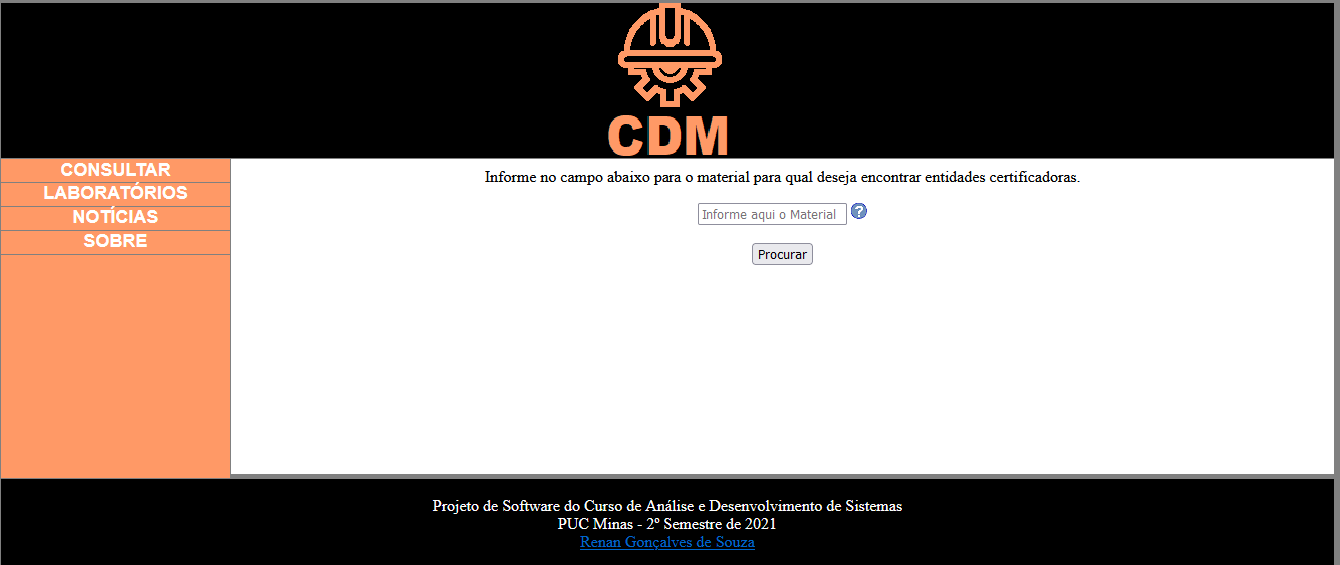
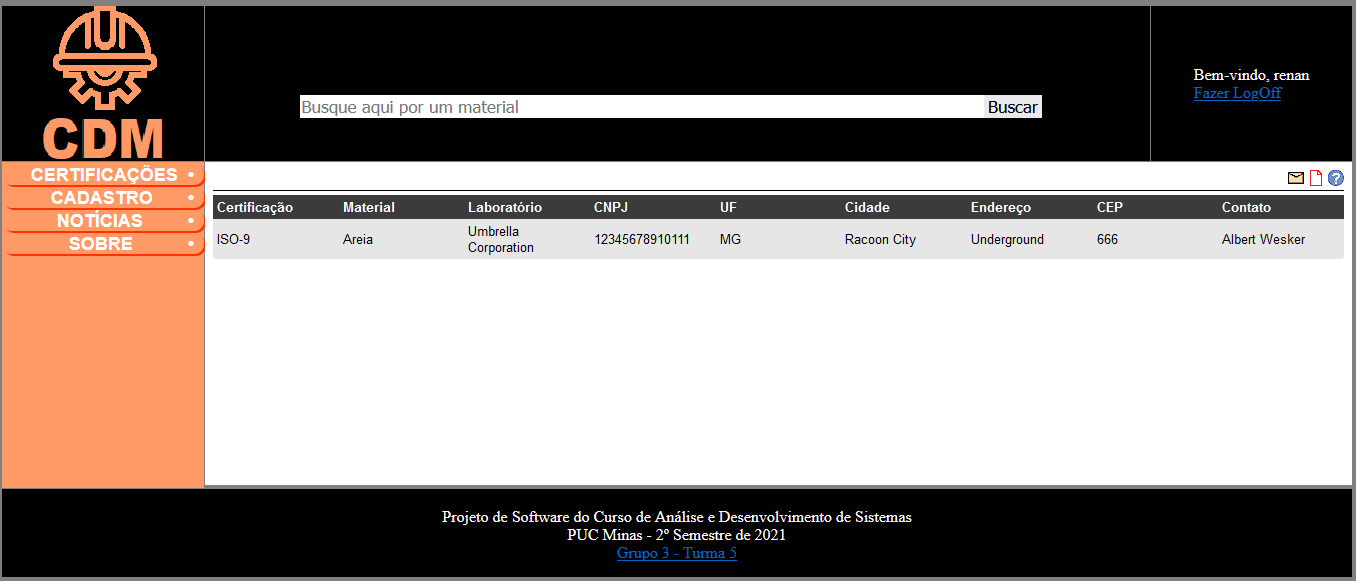
doumentação: completude de informações

Changed region(s): [[0.0, 0.0, 1.0, 1.0], [0.8567, 0.1204, 0.9791, 0.1805]]

diff --git a/docs/09-Registro de Testes de Software.md b/docs/09-Registro de Testes de Software.md
@@ -11,10 +11,10 @@
 
 ### Evidências
 
-Etapa 1:
+Interface de acesso:
 ![ct-01-01](img/teste_ct-01-01.PNG)
 
-Etapa 2:
+Login com sucesso:
 ![ct-01-02](img/teste_ct-02-02.PNG)
 
 ## CT-02: Realizar cadastro de Laboratório
@@ -28,32 +28,25 @@ Etapa 2:
 
 ### Evidências
 
-Etapa 1:
+Interface de cadastro:
 ![ct-02-01](img/teste_ct-02-01.PNG)
 
-Etapa 2:
+Interface preenchida:
 ![ct-02-02](img/teste_ct-02-02.PNG)
 
-Etapa 3:
+Inserção bem-sucedida no banco:
 ![ct-02-03](img/teste_ct-02-03.PNG)
 
 ## CT-03: Localizar Entidade Certificadora
 
 * **Objetivo:** Encontrar o endereço de uma entidade certificadora dado um material.
 * **Etapas**: 
- 1. Acessar página de Consulta: <url>/consulta.html
+ 1. Acessar página principal: <url>/index.php
  2. Informar um material válido.
  3. Apertar ENTER ou clicar no botão "Procurar". 
 * **Saída Esperada**: Nome e endereço de(as) entidade(as) que certifica(m) o material.
 
 ### Evidências
 
-Etapa 1:
+Encontrado informações de laboratório que emite certificação para areia:
 ![ct-03-01](img/teste_ct-03-01.PNG)
-
-Etapa 2:
-![ct-03-01](img/teste_ct-03-02.PNG)
-
-Etapa 3:
-![ct-03-01](img/teste_ct-03-03.PNG)
-

diff --git a/docs/11-Registro de Testes de Usabilidade.md b/docs/11-Registro de Testes de Usabilidade.md
@@ -17,6 +17,7 @@ Campos não informados são tratados internamente com valores padrão.
 ![valor padrão](img/teste_tu01-02.PNG)
 
 Campos dão feedback visual ao usuário quando preenchidos com caracteres impróprios. Também é apresentado o que se espera via pop-up.
+
 ![valor padrão](img/teste_tu01-03.PNG)
 
 ### Conclusões
